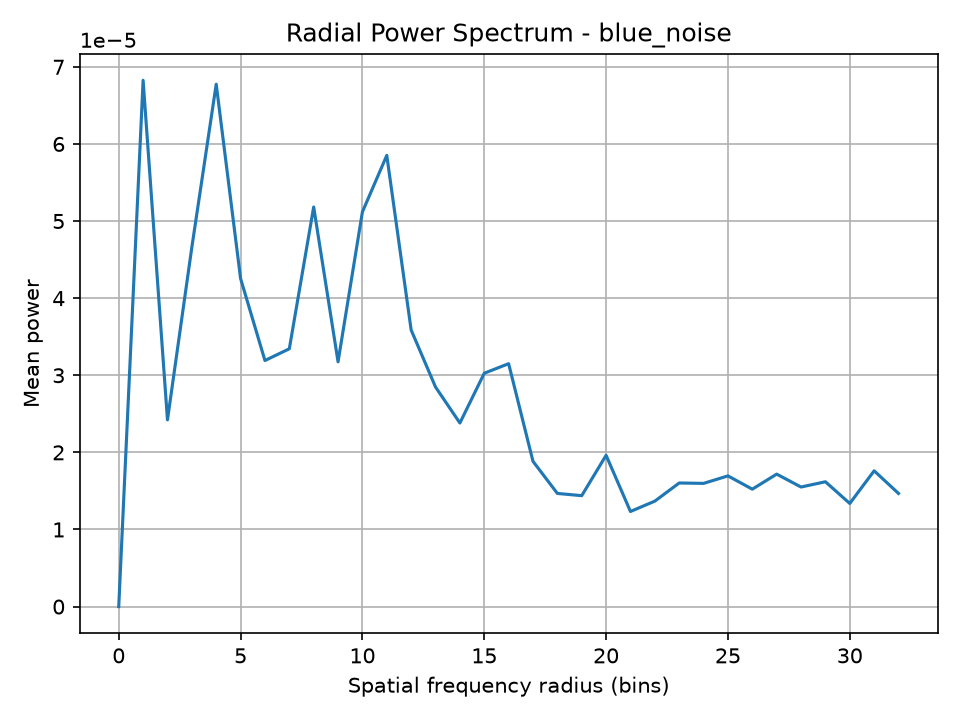
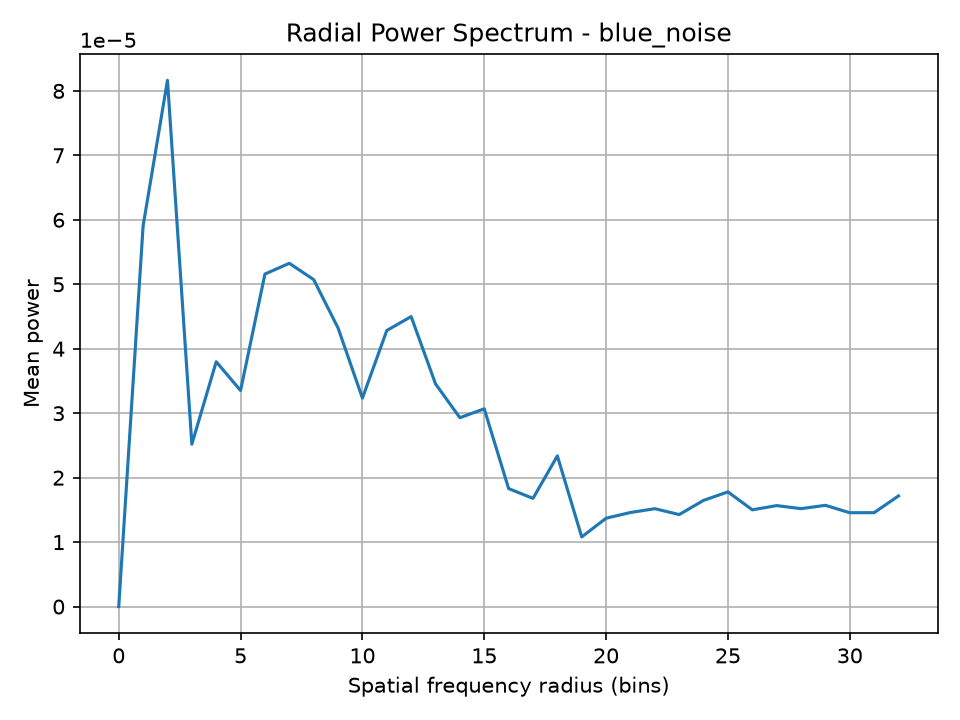
added binary experiment

diff --git a/src/main.cpp b/src/main.cpp
@@ -138,7 +138,6 @@ void blue_noise_experiment0()
 {
     std::size_t width = 64;
     std::size_t height = 64;
-    Random rng(42); // Fixed seed for reproducibility.
 
     std::string experiment_path = "experiments/blue_noise";
 
@@ -150,7 +149,7 @@ void blue_noise_experiment0()
     std::cout << "--------------------------------\n";
 
     // Fill the image with blue noise using a void-and-cluster algorithm.
-    Image2D<int> ranks = generation::make_void_cluster_rank_mask(width, height, rng.uniform_int(0, 1000000), 2.0f, 6);
+    Image2D<int> ranks = generation::make_void_cluster_rank_mask(width, height, 42, 2.0f, 6);
 
     // Normalize the ranks to [0, 1] for visualization.
     Image2D<float> image(width, height, 0.0f);
@@ -168,8 +167,61 @@ void blue_noise_experiment0()
     // Save the image as a PGM file.
     visualization::save_pgm(image, experiment_path + "/mask.pgm");
 
-    print_stats(image, 4);
+    // print_stats(image, 4);
     spectral_analysis(image, experiment_path);
+
+    std::cout << "Saved " << experiment_path << "/mask.pgm\n";
+}
+
+void blue_noise_experiment1()
+{
+    std::size_t width = 64;
+    std::size_t height = 64;
+
+    std::string experiment_path = "experiments/blue_noise_binary";
+
+    // Create the output directory if it doesn't exist.
+    std::filesystem::create_directories(experiment_path);
+
+    std::cout << "--------------------------------\n";
+    std::cout << "Blue Noise Experiment 1\n";
+    std::cout << "--------------------------------\n";
+
+    // Fill the image with blue noise using a void-and-cluster algorithm.
+    Image2D<int> ranks = generation::make_void_cluster_rank_mask(width, height, 42, 2.0f, 6);
+
+    // Normalize the ranks to [0, 1] for visualization.
+    Image2D<float> image(width, height, 0.0f);
+    const float max_rank = static_cast<float>(width * height - 1);
+
+    for (std::size_t y = 0; y < height; ++y)
+    {
+        for (std::size_t x = 0; x < width; ++x)
+        {
+            // Normalize the rank to [0, 1].
+            image.at(x, y) = static_cast<float>(ranks.at(x, y)) / max_rank;
+        }
+    }
+
+    Image2D<float> binary(width, height, 0.0f);
+
+    const float threshold = 0.1f;
+
+    for (std::size_t y = 0; y < height; ++y)
+    {
+        for (std::size_t x = 0; x < width; ++x)
+        {
+            binary.at(x, y) = image.at(x, y) < threshold ? 1.0f : 0.0f;
+        }
+    }
+
+    // Save the image as a PGM file.
+    visualization::save_pgm(image, experiment_path + "/mask.pgm");
+    visualization::save_pgm(binary, experiment_path + "/mask_binary.pgm");
+
+    // print_stats(image, 4);
+    // spectral_analysis(image, experiment_path);
+    spectral_analysis(binary, experiment_path);
 
     std::cout << "Saved " << experiment_path << "/mask.pgm\n";
 }
@@ -178,5 +230,6 @@ int main()
 {
     // white_noise_experiment();
     blue_noise_experiment0();
+    blue_noise_experiment1();
     return 0;
 }
